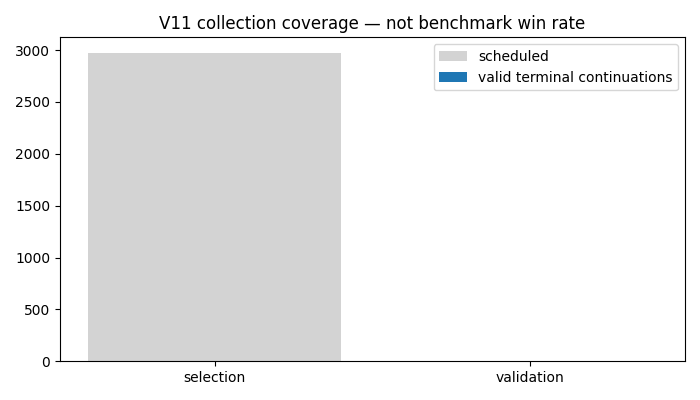
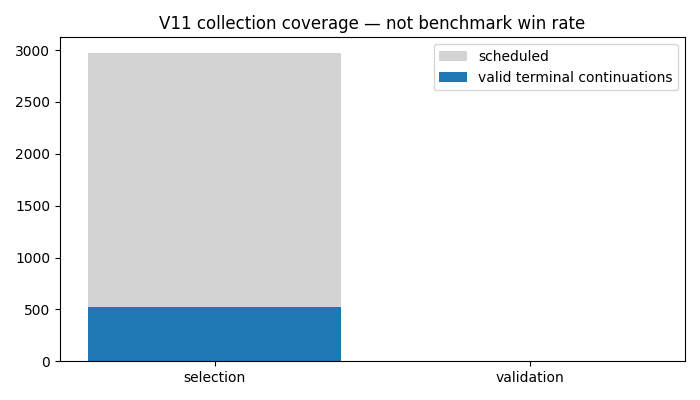
Prepare validated V11 benchmark views while selection continues

Changed region(s): [[0.12, 0.75, 0.51, 0.9]]

diff --git a/scripts/publish_v11_development_views.py b/scripts/publish_v11_development_views.py
@@ -1,0 +1,63 @@
+"""Derive development dashboard inputs from V11's immutable benchmark attempts.
+
+No games, fitting, candidate selection or promotion. Canonical evidence remains
+in progress/expanded-terminal-v11/benchmarks. Missing cells remain missing.
+"""
+import json
+from pathlib import Path
+import sys
+sys.path.insert(0,str(Path(__file__).resolve().parents[1]))
+from alpha0 import evaluate as E
+from alpha0.terminal_v8_report import select_benchmark_result,validate_benchmark_spec,valid_benchmark_result
+ROOT=E.ROOT
+
+
+def publish(progress=None, output=None):
+    progress=Path(progress) if progress is not None else ROOT/'progress/expanded-terminal-v11'
+    output=Path(output) if output is not None else ROOT/'progress/development-v4'
+    if not (progress/'benchmarks/specs.json').exists():
+        return {'status':'benchmark_not_started','playing_strength_claim':False}
+    identity=json.loads((progress/'identity.json').read_text())
+    frozen=json.loads((progress/'benchmarks/specs.json').read_text())
+    assert frozen['identity_sha256']==E.fingerprint(identity)
+    specs=frozen['specs'];assert len(specs)==768 and len({s['cell_id'] for s in specs})==768
+    # Validate the entire frozen schedule before writing any derived views.
+    from alpha0.terminal_v8_development import summarize_benchmarks
+    actions=json.loads((progress/'validation-actions.json').read_text())
+    assert actions['identity_sha256']==E.fingerprint(identity)
+    panel_path=ROOT/identity['config']['benchmark_manifest']
+    assert E.file_hash(panel_path)==identity['panel_sha256']
+    attempts=[json.loads(p.read_text()) for p in (progress/'benchmarks/cells').glob('*/attempt-[0-9][0-9][0-9].json')]
+    summarize_benchmarks(specs,attempts,identity,
+        expected_panel=json.loads(panel_path.read_text()),
+        expected_checkpoints={arm:row['sha256'] for arm,row in actions['checkpoints'].items()})
+    report={}
+    for arm in ('cp2','terminal_head','puct_head'):
+        group=[s for s in specs if s['arm']==arm];assert len(group)==256
+        rows=[];proof=[]
+        for spec in group:
+            validate_benchmark_spec(spec,E.fingerprint(identity))
+            files=sorted((progress/'benchmarks/cells'/spec['cell_id']).glob('attempt-[0-9][0-9][0-9].json'))
+            history=[json.loads(p.read_text()) for p in files]
+            row=select_benchmark_result(spec,history)
+            if row is None:continue
+            if row['status']=='ok':assert valid_benchmark_result(spec,row)
+            rows.append(row['evaluation'])
+            proof.extend({'path':str(p.relative_to(ROOT)),'sha256':E.file_hash(p)} for p in files)
+        if not rows:continue
+        out=output/f'v11-{arm}'
+        out.mkdir(parents=True,exist_ok=True)
+        E.atomic_json(out/'source.json',{'experiment_identity':E.fingerprint(identity),'arm':arm,
+                    'canonical_specs_sha256':E.file_hash(progress/'benchmarks/specs.json'),'attempt_files':proof,
+                    'derived_dashboard_view':True,'automatic_promotion':False})
+        tmp=out/'evaluations.jsonl.tmp'
+        tmp.write_text(''.join(json.dumps(r,sort_keys=True,separators=(',',':'))+'\n' for r in rows));tmp.replace(out/'evaluations.jsonl')
+        valid=[r for r in rows if r['status']=='ok']
+        counts={'valid':len(valid),'expected':256,'wins':sum(r['score']==1 for r in valid),
+                'losses':sum(r['score']==0 for r in valid),'draws':sum(r['score']==.5 for r in valid),
+                'unresolved_errors':len(rows)-len(valid),'complete':len(valid)==256,
+                'checkpoint_sha256':rows[0]['checkpoint_sha256']}
+        E.atomic_json(out/'coverage.json',counts);report[arm]=counts
+    return report
+
+if __name__=='__main__':print(json.dumps(publish(),indent=2))

diff --git a/tests/test_publish_v11_development_views.py b/tests/test_publish_v11_development_views.py
@@ -1,0 +1,35 @@
+import json
+from pathlib import Path
+from scripts import publish_v11_development_views as V
+
+
+def test_no_benchmark_is_not_zero_strength(tmp_path):
+    out=tmp_path/'out'
+    assert V.publish(tmp_path/'missing',out)['status']=='benchmark_not_started'
+    assert not out.exists()
+
+
+def test_saved_full_panel_conversion(tmp_path,monkeypatch):
+    # Read-only regression fixture; never rerun these completed games.
+    original=V.ROOT/'progress/terminal-target-head-v8'
+    fixture=tmp_path/'fixture';fixture.mkdir()
+    for name in ('identity.json','benchmarks'):
+        (fixture/name).symlink_to(original/name)
+    (tmp_path/'configs').symlink_to(V.ROOT/'configs')
+    actions=json.loads((original/'validation-actions.json').read_text())
+    actions['checkpoints']={a:{'sha256':sha} for a,sha in actions.pop('checkpoint_sha256_by_arm').items()}
+    (fixture/'validation-actions.json').write_text(json.dumps(actions))
+    monkeypatch.setattr(V,'ROOT',tmp_path)
+    result=V.publish(fixture,tmp_path)
+    assert {arm:(r['valid'],r['wins'],r['losses']) for arm,r in result.items()} == {
+        'cp2':(256,82,174),'terminal_head':(256,81,175),'puct_head':(256,79,177)}
+    for arm in result:
+        source=json.loads((tmp_path/f'v11-{arm}'/'source.json').read_text())
+        assert source['derived_dashboard_view'] and not source['automatic_promotion']
+        assert len((tmp_path/f'v11-{arm}'/'evaluations.jsonl').read_text().splitlines())==256
+    import pytest
+    actions['checkpoints']['terminal_head']['sha256']='0'*64
+    (fixture/'validation-actions.json').write_text(json.dumps(actions))
+    with pytest.raises(ValueError,match='changed candidate'):
+        V.publish(fixture,tmp_path/'rejected')
+    assert not (tmp_path/'rejected').exists()

diff --git a/docs/research-log.md b/docs/research-log.md
@@ -587,3 +587,6 @@ The validation collector remains healthy under its frozen identity. New unlaunch
 
 ### V11 learning pipeline frozen and launched
 Validation completed48/48 sources and32 unique roots with zero overlap against2197 excluded inputs; independent audit checked192 cache positions. Validation recovery SHA0b68780ff622d7a058247c1b9271c89470da16f6d3689c304084dcb2d10a5ea6 is verified/published. All96 physical training/validation roots reproduced exact state/input/cache tensors through the multi-source adapter.17 unit/integration guard tests passed; seed inventory covered17192 local records and12 archives without collisions. Full pipeline/config/protocol committedc067d47 before launch. The bounded10800-second two-worker cycle is collecting comparators, then2974 terminal targets; both4096-step fits remain gated on complete targets. All output files are hash-pinned per completed job for resumptions. No V11 benchmark improvement claim.
+
+### V11 live selection review and dashboard preparation
+At 08:46 UTC November 11, owner190851 remained healthy in selection with two workers, all15 locks held, no applicable STOP, and the frozen runtime identity unchanged. The 08:45 derived snapshot validated524/2974 terminal continuations; this is work coverage, not strength. No duplicate actor or pinned runtime edits. Added a separate, nonpinned V11 dashboard adapter that validates the entire frozen768-cell schedule and checkpoint identities before deriving per-arm views. Two regression tests passed using retained V8 raw results in an isolated fixture, including wrong-checkpoint rejection and no-results handling. The top-level strength dashboard remains the completed V8 candidate; V11 benchmark views will be published only from actual V11 cells.

diff --git a/progress/expanded-terminal-v11/README.md b/progress/expanded-terminal-v11/README.md
@@ -9,3 +9,5 @@ Active bounded research cycle. Frozen identity `94d03e8b4bfa3582dd2129aa1723c541
 Sequence:64 PUCT comparators,2974 selection continuations, two4096-update head fits, independently shared validation continuations, then768 fresh development-v4 benchmark games. The terminal head is the fixed candidate; no post-hoc arm choice. No incomplete data fitting. Every job has immutable output hashes; failed/unclosed jobs require review.
 
 The chart measures work completed, not strength. Latest completed benchmark remains V8 terminal81W175L/256; original cp2 baseline83W173L. No V11 playing-strength result yet. At complete valid180/256 wins, prioritize tournament compatibility.
+
+Review snapshot (2026-11-11 08:45 UTC):524/2974 target continuations valid; selection remains active. This timestamped coverage is not a final integrity certification. The separate dashboard adapter `scripts/publish_v11_development_views.py` is ready for eventual canonical benchmark cells; it does not launch games or change the pinned runtime. At benchmark review boundaries, run it, then `scripts/report_development.py progress/development-v4/v11-terminal_head --manifest configs/benchmarks-development-v4.json` once candidate cells exist.
